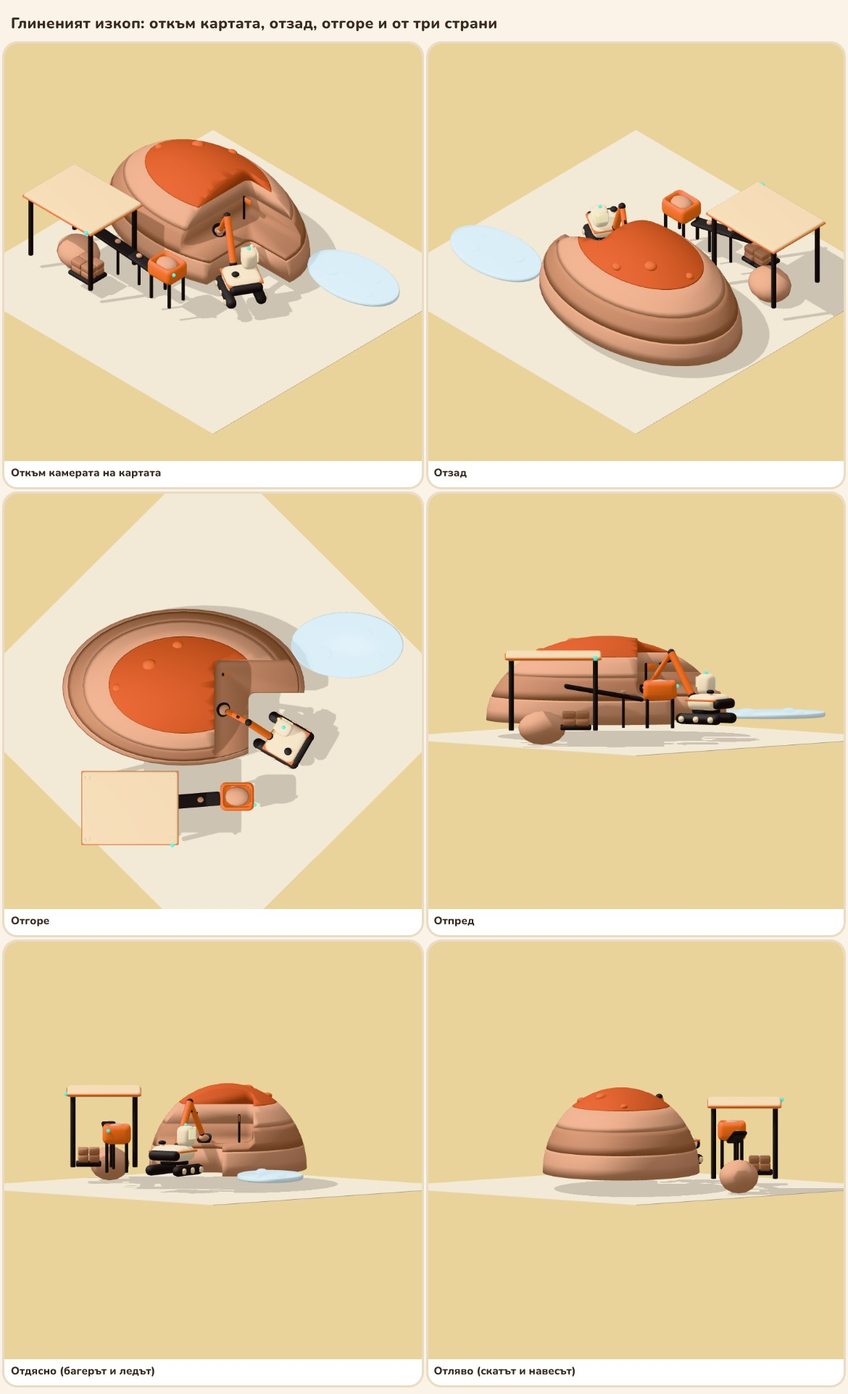
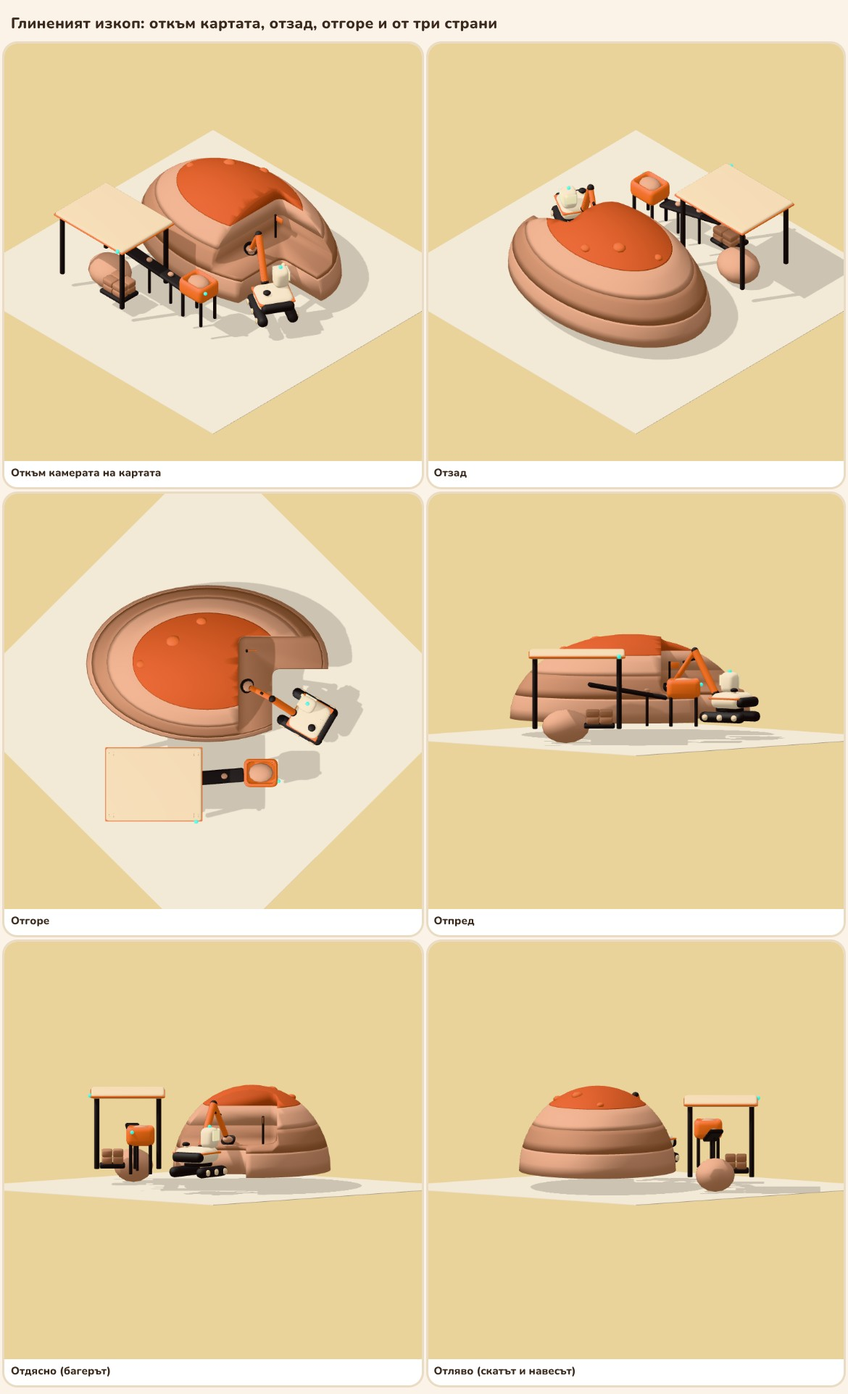
Take the ice out of the clay pit model: the ice belongs to the map
Claude-Session: https://claude.ai/code/session_01HQgMkjNnqwwRJNMx64uagA

diff --git a/mockup/src/catalog.js b/mockup/src/catalog.js
@@ -48,7 +48,7 @@ const SETS = {
     ['kk/dock-2', 'Етап 2 (ниво 14, 500): седем ребра', 0, 0], ['kk/dock-3', 'Етап 3 (ниво 17, 1 000): всички ребра, носът, долните надлъжни греди', 0, 0],
     ['kk/ark+kk/dock-1@2.32,-1.82', 'На парцела на Ковчега (етап 1), в мащаба на картата', 4.15, 0, 36, 28],
     ['kk/ark+kk/dock-4@2.32,-1.82', 'На парцела на Ковчега отгоре: кранът и мястото за частите', 4.15, 0, 88, 28]]),
-  claypit: views('kk/claypit', 'Глиненият изкоп: откъм картата, отзад, отгоре и от три страни', 5.4, 'багерът и ледът', 'скатът и навесът'),
+  claypit: views('kk/claypit', 'Глиненият изкоп: откъм картата, отзад, отгоре и от три страни', 5.4, 'багерът', 'скатът и навесът'),
   smelter: views('kk/smelter', 'Топилнята: откъм картата, отзад, отгоре и от три страни', 5.2, 'мачтата и трансформаторът', 'бункерът и лентата',
     [['kk/smelter', 'Топилнята в мащаба на картата', 4.15, 0], ['kk/furnace', 'Силициевата пещ, до която стои, в същия мащаб', 4.15, 0]]),
 };

diff --git a/art/3d/buildings/src/build.py b/art/3d/buildings/src/build.py
@@ -1252,7 +1252,7 @@ def b_smelter(p):
 
 # ======================================================================================
 # the clay pit (level 13, docs/levels.md): on the shore of the ice in the Ice Hollow, a geologist works it. A clay quarry:
-#    a bank of clay layers by the frozen lake, its face dug back in terraces; a small electric excavator on tracks digs
+#    a bank of clay layers, its face dug back in terraces (the ice is the map's, not the model's: Joro, 11.11.2026); a small electric excavator on tracks digs
 #    from the terrace (the geologist drives it from the lit cab), swings and tips the clay into the hopper; a belt carries
 #    it under the awning, where it waits in a heap and as blocks on a pallet for the brick kiln (level 15, next door).
 #    A survey stake with an orange flag marks the layer on top of the bank. Nothing grows outside yet (chapter 3).
@@ -1322,12 +1322,6 @@ def b_claypit(p):
     # the survey stake on the terrace: where the geologist marked the good layer
     cyl(0.008, 0.2, p['char'], (-0.1, 0.5, 0.2), bev=0.003, verts=12)
     rbox(0.07, 0.006, 0.045, 0.004, p['orange'], (-0.065, 0.5, 0.35), seg=1)
-    # the frozen lake behind, on the right: an oval of ice with a few chunks on it
-    bpy.ops.mesh.primitive_cylinder_add(vertices=48, radius=1.0, depth=0.04, location=(0.78, 0.72, 0.02))
-    o = bpy.context.object; o.scale = (0.4, 0.235, 1); bpy.ops.object.transform_apply(scale=True)
-    bv = o.modifiers.new('b', 'BEVEL'); bv.width = 0.015; bv.segments = 3; _apply(o); _done(o, p['ice'])
-    for (x_, y_, r) in ((0.62, 0.66, 0.045), (0.92, 0.8, 0.035), (1.0, 0.64, 0.03)):
-        ball(r, p['ice'], (x_, y_, 0.04), (1.3, 1, 0.6), seg=12)
     # the excavator stands in the pit and digs at the face above the terrace; the hopper waits at its side
     T = Vector((-0.12, 0.3)); P0 = Vector((0.33, 0.04)); a = math.atan2(T.y - P0.y, T.x - P0.x)
     excavator(p, (P0.x, P0.y), a - math.pi / 2)

diff --git a/art/3d/buildings/README.md b/art/3d/buildings/README.md
@@ -24,7 +24,7 @@
 | `solar.glb` | Слънчеви панели | Два реда панели в кремави рамки на стойки, инвертор със светлини и отдушник, кабел |
 | `batteries.glb` | Батерии | Четири изправени клетки с ленти за заряда, общ кабел, контролна кутия |
 | `greenhouse.glb` | Оранжерия | Стъклена арка с ребра, затворена със стъкло и в двата края, вътре лехи с растения; сервизен модул с врата, прозорче и отдушник |
-| `claypit.glb` | Глинен изкоп (ниво 13; видът е предложение, 11.11.2026) | На брега на леда в Ледената падина; работи в него геолог. Глинен кариер: заоблена могила от пластове глина (светли и тъмни), с червен реголит отгоре и няколко камъка; откъм багера е изкопана тераса на половин височина и под нея дъното на изкопа на нивото на земята, затова пластовете се виждат в стените (ръбовете са заоблени). Малък електрически багер на вериги стои в изкопа и копае от челото над терасата: кремаво тяло с оранжева лента, батерията отзад с малък отдушник, кабината вдясно с топли прозорци отпред и отстрани (там е геологът), оранжева стрела, кофа с глина. Багерът сипва глината в оранжевия бункер, лента я носи под навеса, където чака на купчина и като блокове на палет за пещта за тухли (ниво 15, до изкопа). На терасата колче с оранжево знаменце: пластът, който геологът е отбелязал. Отзад вдясно замръзналото езеро, овал лед с няколко парчета. Навън още нищо не расте (растенията излизат в глава 3). Около 9 × 7 м. Прави се от `src/build.py` (`b_claypit`, багерът е `excavator`) и се компресира като дома: 65 KB. Изгледите са в `claypit-views.jpg` (`mockup/catalog.html#set=claypit`, `node shot-catalog.js claypit`) |
+| `claypit.glb` | Глинен изкоп (ниво 13; видът е предложение, 11.11.2026) | На брега на леда в Ледената падина; работи в него геолог. Глинен кариер: заоблена могила от пластове глина (светли и тъмни), с червен реголит отгоре и няколко камъка; откъм багера е изкопана тераса на половин височина и под нея дъното на изкопа на нивото на земята, затова пластовете се виждат в стените (ръбовете са заоблени). Малък електрически багер на вериги стои в изкопа и копае от челото над терасата: кремаво тяло с оранжева лента, батерията отзад с малък отдушник, кабината вдясно с топли прозорци отпред и отстрани (там е геологът), оранжева стрела, кофа с глина. Багерът сипва глината в оранжевия бункер, лента я носи под навеса, където чака на купчина и като блокове на палет за пещта за тухли (ниво 15, до изкопа). На терасата колче с оранжево знаменце: пластът, който геологът е отбелязал. Ледът не е в модела: той е част от картата (Ледената падина), а изкопът стои на брега му (Жоро, 11.11.2026). Навън още нищо не расте (растенията излизат в глава 3). Около 8 × 6 м. Прави се от `src/build.py` (`b_claypit`, багерът е `excavator`) и се компресира като дома: 61 KB. Изгледите са в `claypit-views.jpg` (`mockup/catalog.html#set=claypit`, `node shot-catalog.js claypit`) |
 | `dock-0.glb` … `dock-4.glb` | Докът с рамата на кораба (нива 12–19; видът и порталният кран са предложение, 11.11.2026) | Открита площадка на парцела на Ковчега, пред него вдясно, откъм крана (центърът е на (2,32; −1,82) от Ковчега, без завъртане). Дронът я печата светла, с тъмен ръб, оранжева лента и тюркоазени светлинки в ъглите. Фабрикаторът на Ковчега прави частите от стомана, а кранът му ги спуска на маркираното място в ъгъла до Ковчега (оранжев ръб около тъмен квадрат): рамото на крана стига около 3,7 м, а мястото е на 3,6 м от основата му. Оттам малък портален кран на релси по дока (предложение) носи частта до мястото ѝ. Рамата е скелет на кораб върху тъмни подпори с оранжеви седла, носът е напред: кил, U-образни ребра, нос, кърма и надлъжни греди от стомана. Етапите (`docs/levels.md`): `dock-0` празният док (ниво 12); `dock-1` кил, кърма и три ребра (етап 1, 200 стомана), порталът носи четвъртото; `dock-2` седем ребра (етап 2, 500), порталът носи осмото; `dock-3` всички десет ребра, носът и долните надлъжни греди (етап 3, 1 000), гредите за етап 4 чакат на мястото; `dock-4` всички надлъжни греди и напречните греди на палубата (етап 4, 1 500): рамата е готова. Отпред два стълба с прожектори за нощната работа. Около 5,4 × 12,5 м. Прави се от `src/build.py` (`b_dock`) и се компресира като дома: 31–50 KB. Изгледите, етапите и докът на парцела на Ковчега са в `dock-views.jpg` (`mockup/catalog.html#set=dock`, `node shot-catalog.js dock`) |
 | `smelter.glb` | Топилня (ниво 11; видът е одобрен от Жоро, 11.11.2026) | Желязна руда + карбон + ток → стомана, до силициевата пещ. Електрическа пещ, както в малките стоманолеярни днес: кръгъл съд с капак и три дебели графитни електрода (графитът е карбон), които влизат през капака на оранжеви рамене от мачта, всяко на своя височина, за да минават едно над друго; дебели кабели от мачтата до трансформатора, защото харчи много ток, и линия от него към панелите и батериите. Пътят на материала: отзад вляво бункер на крака с желязна руда в едната половина и карбон в другата, лента ги сипва в отвора на капака; отпред улей, по който разтопената стомана свети и тече в кофа, а до нея на палет чакат излетите стоманени пръти. Димът излиза от върха на капака по тръба към филтърната кула с гъбовиден отдушник (филтърът се проучва на същото ниво), затова пушек няма. Отпред вляво кабината на инженера: врата в оранжева рамка и осветен прозорец с бюро и екран. Около 9 м широка в мащаба на картата. Прави се от `src/build.py` (`b_smelter`) и се компресира като дома: 123 KB. Изгледите отгоре и от трите страни и сравнението с пещта са в `smelter-views.jpg` (`mockup/catalog.html#set=smelter`, `node shot-catalog.js smelter`) |
 | `rover.glb` | Роботът събирач (не е сграда; видът е одобрен от Жоро, 11.11.2026) | Заменя капсулите (Жоро, 11.11.2026): от ниво 2 обикаля каньона и се връща с камък, карбон или ускорение. Шест колела на люлеещо се окачване (rocker-bogie), както при марсоходите, за да минава през камъните: тъмни гуми, кремави главини с оранжев пръстен. Кремаво тяло с тъмна основа и оранжева лента, отпред две топли светлини за нощта и оранжева броня, отзад две тюркоазени. Отпред вляво мачта с две камери в тюркоазени пръстени и радиоантена с тюркоазен връх (от ниво 18 антената на Ковчега го праща по-далеч); отпред вдясно ръка с оранжева кофичка, която току-що е вдигнала камък над коша; между тях малък слънчев панел, а зад него гъбовиден отдушник за батерията. Отзад кош, пълен с камъни и карбон: накланя се назад на шарнира, за да се разтовари, а три тюркоазени светлинки отстрани показват колко е пълен. Около 2,2 м дълъг в мащаба на картата (4,15 м на единица). Прави се от `src/build.py` (`b_rover`) и се компресира като дома (`--flatten true --join true`): 71 KB. Изгледите отгоре и от трите страни са в `rover-views.jpg` (`mockup/catalog.html#set=rover`, `node shot-catalog.js rover`). На картата засега не е (Жоро, 11.11.2026); дали да е по-голям от реалните 2,2 м, за да се натиска лесно на телефона, е отворено |

diff --git a/docs/notes.md b/docs/notes.md
@@ -160,6 +160,7 @@
 
 | Дата | Промяна | Статус |
 | --- | --- | --- |
+| 11.11.2026 | Жоро: „какво е това?“ за леда до изкопа (малък и гладък, приличаше на чиния). Решено: махаме го от модела (А), ледът е част от картата, Ледената падина, а изкопът ще стои на брега му. claypit.glb е направен наново без него. Не е качено в main | Готово |
 | 11.11.2026 | Жоро: глиненият изкоп в нашия стил. Направен е art/3d/buildings/claypit.glb (src/build.py, b_claypit, 65 KB): заоблена могила от пластове глина на брега на замръзналото езеро, изкопана на тераса, така че пластовете се виждат; малък електрически багер на вериги в изкопа, с осветена кабина за геолога; бункер, лента и навес с купчина глина и палет блокове за пещта за тухли; знаменце на отбелязания пласт. Първият вариант (стъпаловидни кутии) приличаше на торта и беше направен наново. Проверен отгоре и от трите страни (claypit-views.jpg). Видът чака Жоро. Не е качено в main | Готово |
 | 11.11.2026 | Жоро: докът с рамата в нашия стил. Направени са art/3d/buildings/dock-0 … dock-4.glb (src/build.py, b_dock, 31–50 KB): открита площадка на парцела на Ковчега, пред него вдясно, откъм крана; маркирано място в ъгъла, където кранът на Ковчега спуска частите (стига до него), и малък портален кран на релси, който ги носи до мястото им (предложение, защото рамото на крана е около 3,7 м); рамата е скелет на кораб върху подпори в четирите етапа от levels.md (кил и три ребра; седем ребра; всички ребра, носът и долните греди; готова рама); прожектори за нощта. Проверени отгоре и от трите страни и на парцела на Ковчега (dock-views.jpg); докът е на 0,4 м от крака на Ковчега и не опира в контейнерите. Видът чака Жоро. Не е качено в main | Готово |
 | 11.11.2026 | Жоро: топилнята в нашия стил. Направен е art/3d/buildings/smelter.glb (src/build.py, b_smelter, 123 KB): електрическа пещ с три графитни електрода на рамене от мачта и кабели до трансформатора; бункер с желязна руда и карбон и лента до капака; улей с разтопена стомана, кофа и палет със стоманени пръти; тръба от капака до филтърната кула, затова без пушек; кабина на инженера с врата и осветен прозорец с бюро. Около 9 м широка, проверена отгоре и от трите страни и до силициевата пещ в мащаба на картата (smelter-views.jpg). Жоро: „Супер е“. Не е качено в main | Готово |

diff --git a/docs/chat-log.md b/docs/chat-log.md
@@ -22,6 +22,7 @@ _Как се чете: най-новият чат е отгоре; вътре в
 12. **Докът с рамата.** Рамото на крана на Ковчега стига само около 3,7 м, затова докът е пред Ковчега вдясно, а кранът спуска частите на маркирано място в ъгъла до себе си; оттам малък портален кран на релси ги носи до мястото им (предложение). Направени са петте етапа (празен док и четирите етапа на рамата от levels.md) и проверката на парцела на Ковчега. Чака Жоро.
 13. **„Тоест ние решихме, че ще има глинен изкоп така ли?“** Да: ниво 13 в levels.md, одобрено на 07.11.2026; глината отива в пещта за тухли (ниво 15), а тухлите в пастата на втория дом (ниво 20). Въпросите за дока (порталният кран, завъртането на крана на Ковчега) останаха без отговор.
 14. **„Добре, сега глинения изкоп“.** Направен е claypit.glb: могила от пластове глина на брега на леда, изкопана на тераса; багер в изкопа с кабина за геолога; бункер, лента, навес с глина и блокове за пещта. Първият вариант от стъпаловидни кутии приличаше на торта, затова могилата е направена естествена. Чака Жоро.
+15. **„Какво е това?“** (ледът до изкопа). Беше замръзналото езеро, но малко и гладко, като чиния. Варианти: А махаме го, ледът е част от картата; Б да личи като лед. **„А, махни го“.**
 
 ### Какво да знае другият чат
 
